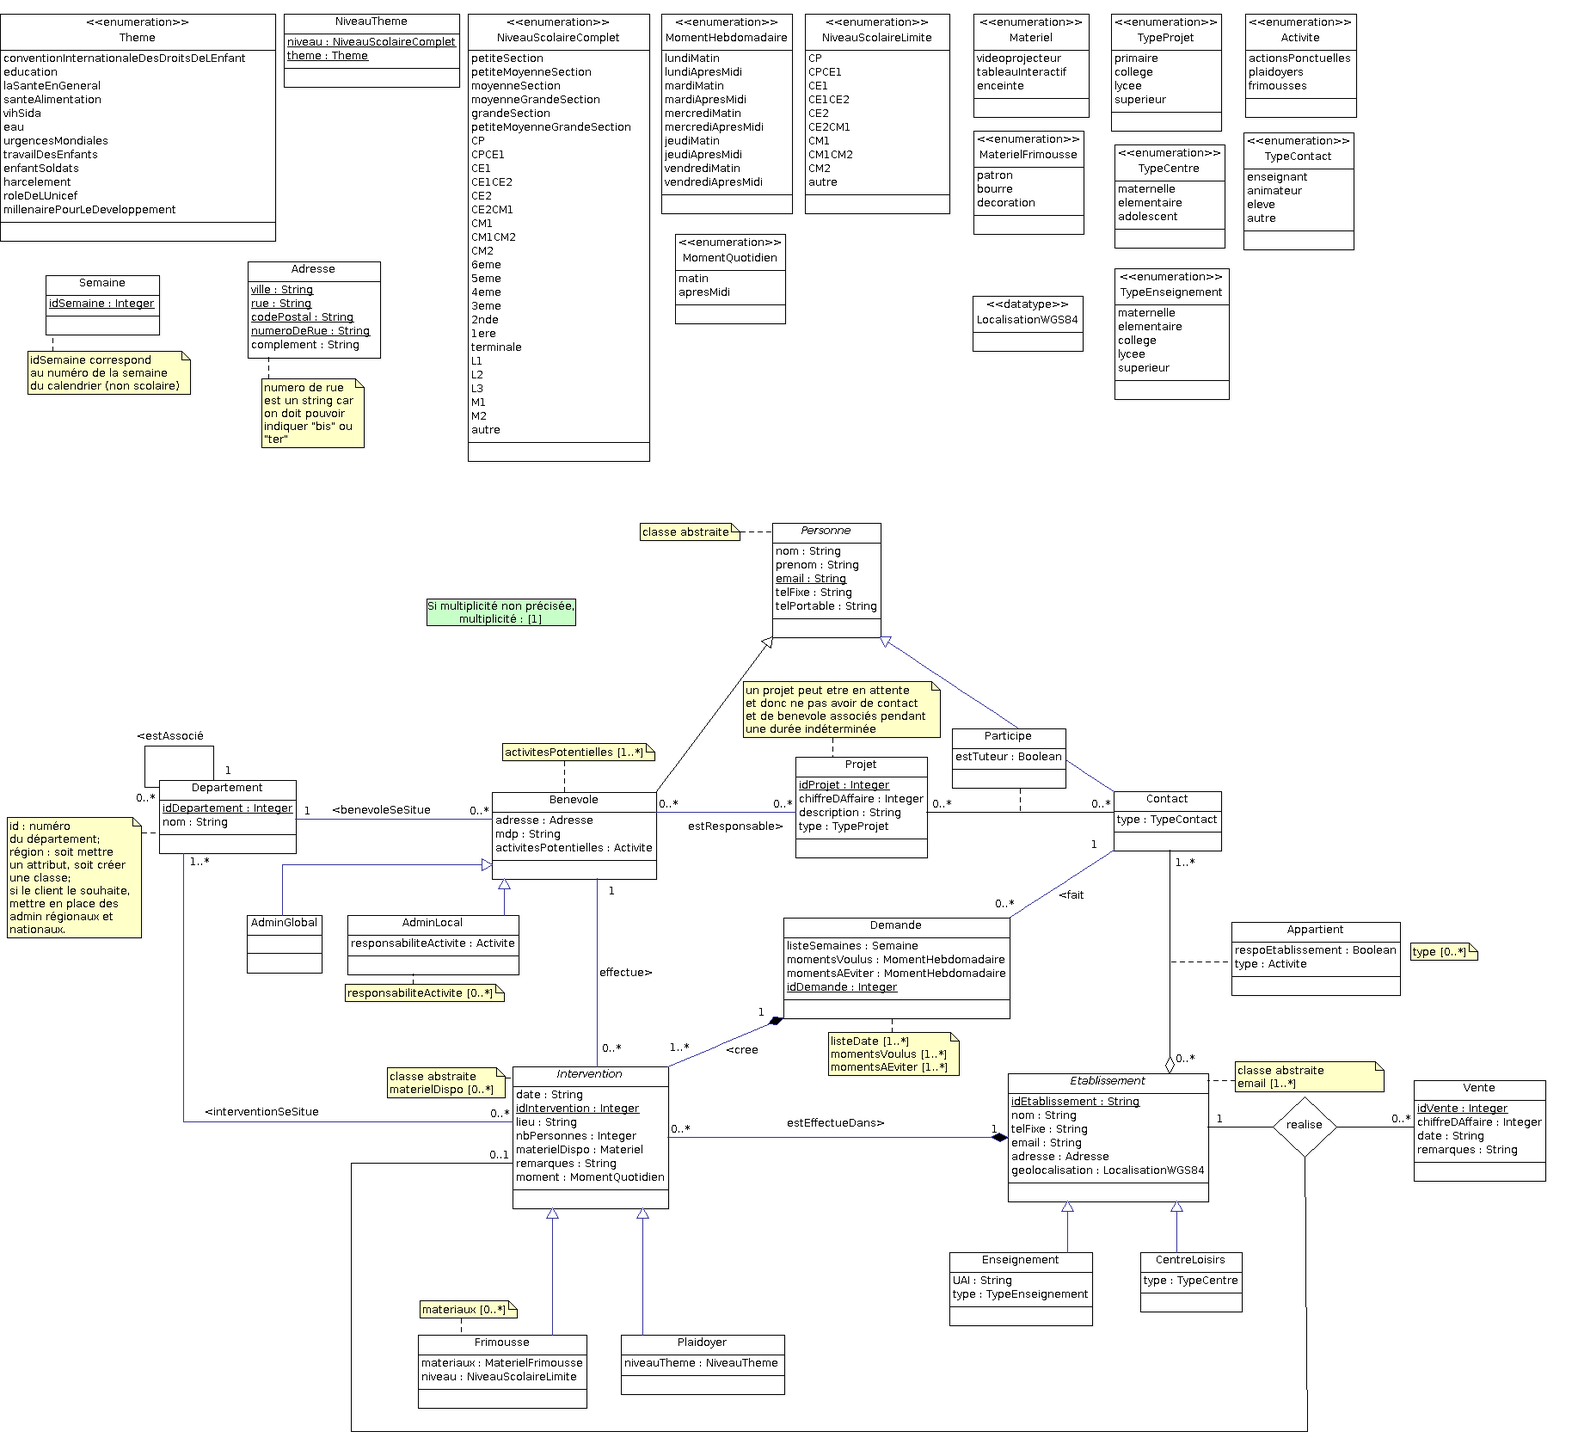
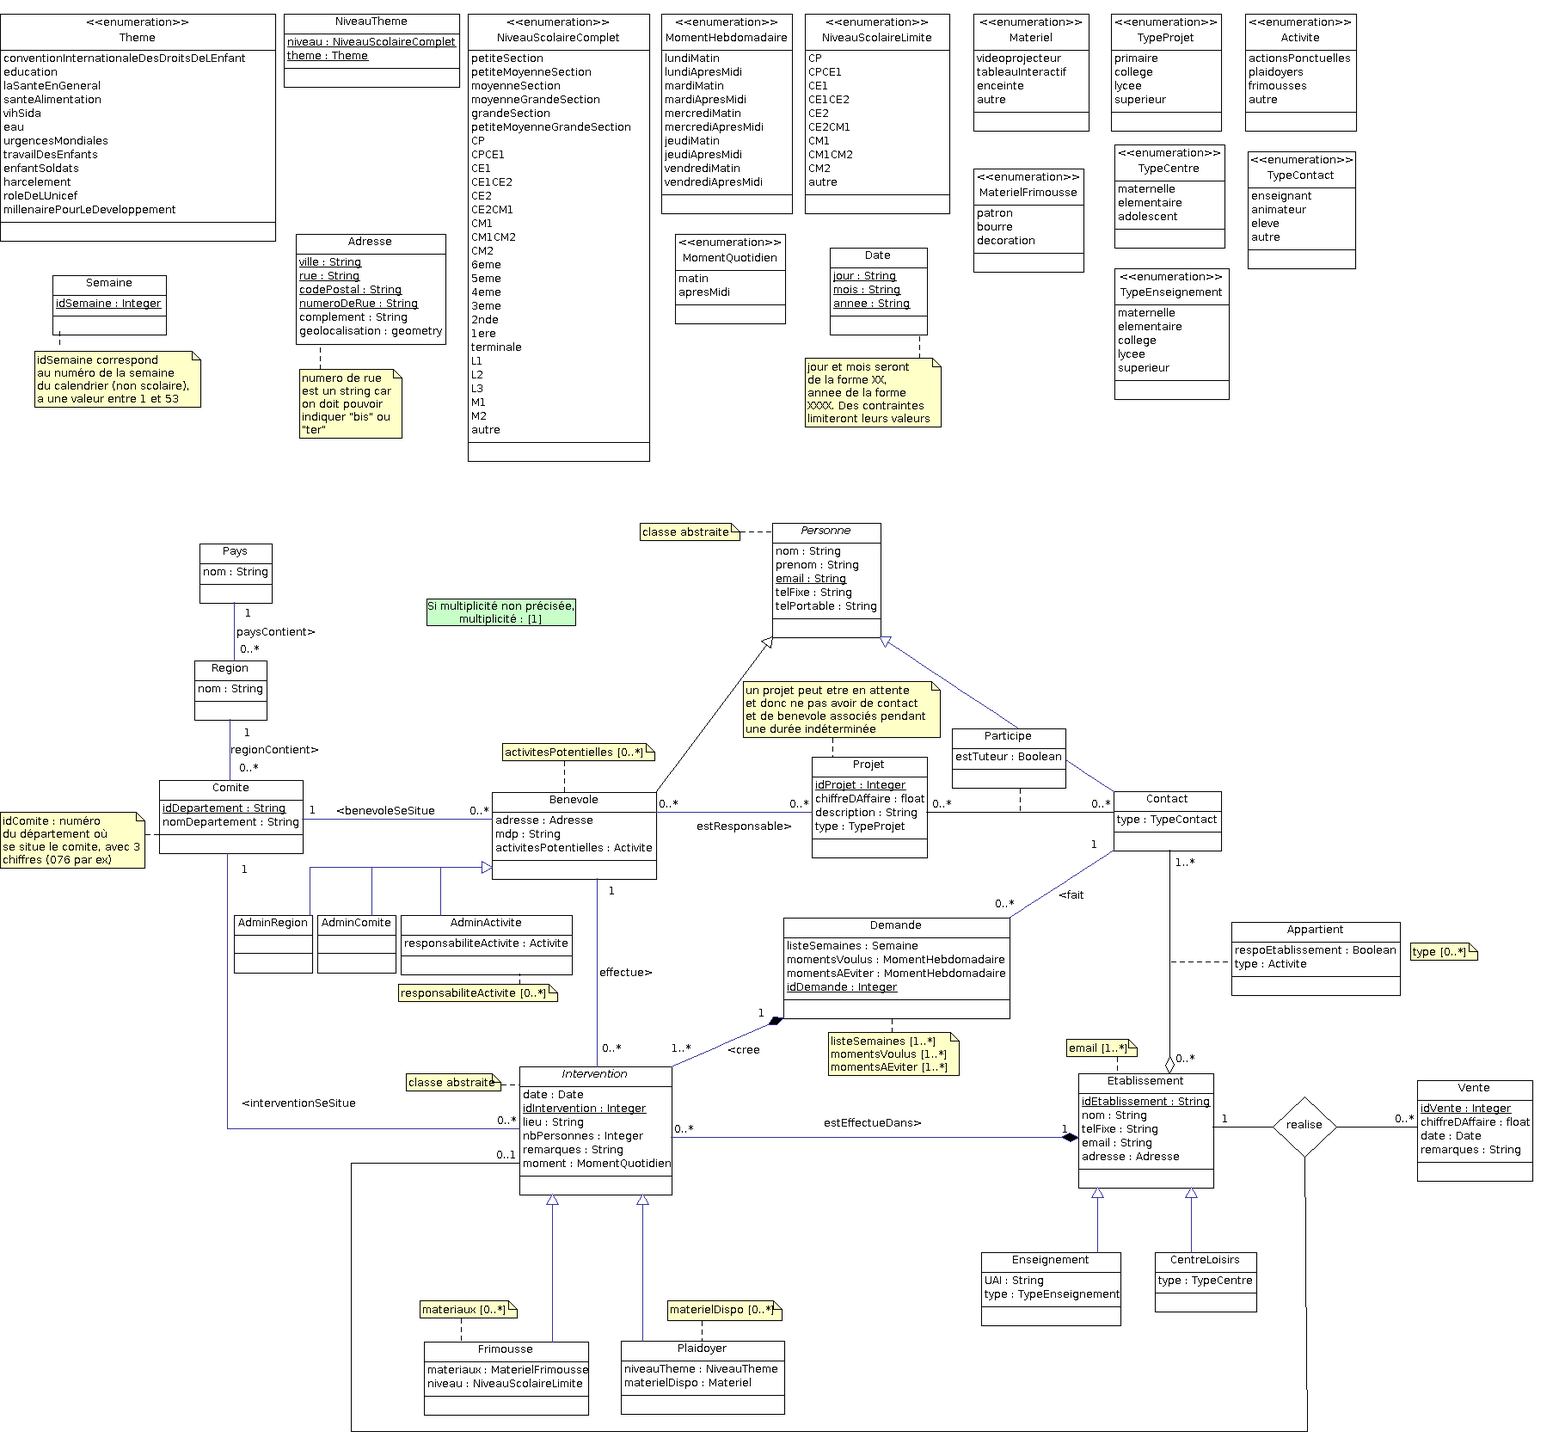
maj DC

diff --git a/developpement/lot1/DCP/diagrammeClasse/enregistrements/descriptionDiagrammeDeClasse.tex b/developpement/lot1/DCP/diagrammeClasse/enregistrements/descriptionDiagrammeDeClasse.tex
@@ -1,4 +1,4 @@
-%version 1.00, date 01/03/16, auteur Mathieu MEDICI, Julie PAIN
+%version 1.01, date 07/03/16, auteur Mathieu MEDICI, Julie PAIN
 
 \documentclass[asi, sansVersion]{picInsa}
 
@@ -33,19 +33,15 @@ Le diagramme de classe réalisé est composé de plusieurs types, de plusieurs c
 
 \subsection*{Geometry}
 
-Le type geometry est un data type spatial issu de PostGIS qui définit la localisation en respectant la norme WGS84.
+Le type geometry est un type de données respectant la norme de l'OGC (Open Geospatial Consortium) et qui définit la géolocalisation.
 
-\subsection*{Theme}
+%\subsection*{Theme}
 
-Le type Theme est une énumération qui définit les différents thèmes possibles pour les plaidoyers.
+%Le type Theme est une énumération qui définit les différents thèmes possibles pour les plaidoyers.
 
-\subsection*{NiveauScolaireComplet}
+\subsection*{NiveauScolaire}
 
-Le type NiveauScolaireComplet est une énumération qui définit tous les niveaux possibles pour les interventions plaidoyer. Ce type comporte aussi des combinaisons des niveaux comme par exemple "CPCE1" ou "CM1CM2". La valeur "autre" est utilisée pour des cas particuliers (niveau CLIS, CM26eme).
-
-\subsection*{NiveauScolaireLimite}
-
-Le type NiveauScolaireLimite est une énumération qui définit tous les niveaux possibles pour les interventions frimousse en se limitant à l'école primaire. Ce type comporte aussi des combinaisons des niveaux comme par exemple "CPCE1" ou "CM1CM2". La valeur "autre" est utilisée pour des cas particuliers (niveau CLIS, CM26eme).
+Le type NiveauScolaire est une énumération qui définit tous les niveaux possibles pour les interventions. Ce type comporte aussi des combinaisons des niveaux comme par exemple "CPCE1" ou "CM1CM2". La valeur "autre" est utilisée pour des cas particuliers (niveau CLIS, CM26eme).
 
 \subsection*{TypeCentre}
 
@@ -65,7 +61,7 @@ Le type TypeContact est une énumération qui définit les différents contacts 
 
 \subsection*{Materiel}
 
-Le type Materiel est une énumération qui définit les différents types de matériel possibles pour une intervention.
+Le type Materiel est une énumération qui définit les différents types de matériel possibles pour les interventions plaidoyers.
 
 \subsection*{MaterielFrimousse}
 
@@ -75,21 +71,30 @@ Le type MaterielFrimousse est une énumération qui définit les différents mat
 
 Le type Activite est une énumération qui définit les différentes activités que peuvent réaliser les bénévoles.
 
-\subsection*{MomentHebdomadaire}
+\subsection*{Jour}
 
-Le type MomentHebdomadaire est une énumération qui définit les différents moments possibles dans une semaine, un moment étant soit le matin soit l'après-midi.
+Le type Jour est une énumération qui définit les différents jours possibles pour une intervention.
 
 \subsection*{MomentQuotidien}
 
 Le type MomentQuotidien est une énumération qui définit les différents moments possibles dans une journée, donc matin ou après-midi.
+
+\subsection*{MomentHebdomadaire}
+
+La classe MomentHebdomadaire définit un type qui est la combinaison d'un jour et d'un moment quotidien.\\
+Cette classe a plusieurs attributs :
+\begin{itemize}
+\item un jour qui appartient à l'énumération Jour;
+\item un moment qui appartient à l'énumération MomentQuotidien.
+\end{itemize}
 
 \subsection*{NiveauTheme}
 
 La classe NiveauTheme définit un type qui est la combinaison d'un thème et d'un niveau.\\
 Cette classe a plusieurs attributs : 
 \begin{itemize}
-\item un niveau qui appartient à l'énumération NiveauScolaireComplet;
-\item un thème qui appartient à l'énumération Theme.
+\item un niveau qui appartient à l'énumération NiveauScolaire;
+\item un thème.
 \end{itemize}
 
 \subsection*{Semaine}
@@ -105,12 +110,24 @@ Cette classe a un attribut :
 La classe Adresse définit un type qui est l'adresse d'une personne ou d'un établissement.\\
 Cette classe a plusieurs attributs : 
 \begin{itemize}
-\item une rue;
-\item un numéro de rue avec si besoin le supplément "bis", "ter" ou "quater";
-\item un code postal;
 \item une ville;
-\item un complément si besoin.
+\item une rue;
+\item un code postal;
+\item un numéro de rue avec si besoin le supplément "bis", "ter" ou "quater";
+\item un complément si besoin;
+\item la géolocalisation associée à cette adresse.
 \end{itemize}
+
+\subsection*{Date}
+
+La classe Date définit un type qui est une date.\\
+Cette classe a plusieurs attributs : 
+\begin{itemize}
+\item un jour;
+\item un mois;
+\item une année.
+\end{itemize}
+
 
 \section{Les classes}
 
@@ -119,59 +136,62 @@ Cette classe a plusieurs attributs :
 La classe Personne est la classe mère des classes Benevole et Contact. C'est une généralisation, c'est à dire que la classe Personne est une classe abstraite et donc une Personne est soit un contact, soit un bénévole. \\
 Cette classe a plusieurs attributs : 
 \begin{itemize}
-\item un nom; %Cdc - Non NULL
-\item un prénom; %Cdc - Non NULL
-\item un numéro de téléphone fixe; %Cdc - Peut être NULL
-\item un numéro de téléphone portable; %Cdc - Peut être NULL
-\item un email. %Ne peut pas être NULL (Clé)
+\item un nom;
+\item un prénom;
+\item un email;
+\item un numéro de téléphone fixe;
+\item un numéro de téléphone portable.
 \end{itemize}
 
 \subsection*{Benevole}
 
-La classe Benevole est une classe fille de la classe Personne et la classe mère des classes AdminLocal et AdminGlobal. Cette classe décrit les bénévoles de l'UNICEF qui réaliseront des interventions mais aussi ceux qui géreront des activités (AdminLocalL) ou des départements (AdminGlobal). L'héritage est ici une spécialisation, c'est à dire qu'une personne peut être simplement bénévole sans être ni administrateur global, ni administrateur local. \\
+La classe Benevole est une classe fille de la classe Personne et la classe mère des classes AdminActivite, AdminComite et AdminRegion. Cette classe décrit les bénévoles de l'UNICEF qui réaliseront des interventions mais aussi ceux qui géreront des activités (AdminActivite), des comités (AdminComite) ou des régions (AdminRegion). L'héritage est ici une spécialisation, c'est à dire qu'une personne peut être simplement bénévole sans être administrateur. \\
 Cette classe a plusieurs attributs : 
 \begin{itemize}
-\item une adresse correspondant à la rue, au numéro de rue, au code postal, à la ville et au complément si besoin; %Adresse est une classe
-\item aucune, une ou plusieurs activités potentielles (action ponctuelle, frimousse, plaidoyer); % attribut multivalué
-\item un mot de passe. 
+\item une adresse correspondant à la rue, au numéro de rue, au code postal, à la ville, au complément si besoin et à une géolocalisation;
+\item un mot de passe;
+\item aucune, une ou plusieurs activités potentielles (action ponctuelle, frimousse, plaidoyer ou autre).
 \end{itemize}
 
-\subsection*{AdminLocal}
+\subsection*{AdminActivite}
 
-La classe AdminLocal permet de représenter un administrateur local. Cette classe est une classe fille de la classe Benevole.\\
+La classe AdminActivite permet de représenter un administrateur d'une ou plusieurs activités (administrateur local du cahier des charges). Cette classe est une classe fille de la classe Benevole.\\
 Cette classe a un attribut :
 \begin{itemize}
-\item aucune, une ou plusieurs responsabilités d'activité (action ponctuelle, frimousse, plaidoyer). 
+\item une ou plusieurs responsabilités d'activité (action ponctuelle, frimousse, plaidoyer ou autre). 
 \end{itemize}
 
-\subsection*{AdminGlobal}
+\subsection*{AdminComite}
 
-La classe AdminGlobal permet de représenter un administrateur global. Cette classe est une classe fille de la classe Benevole. 
+La classe AdminComite permet de représenter un administrateur de comité (ou d'un département, c'est la même chose). Cette classe est une classe fille de la classe Benevole. 
+
+\subsection*{AdminRegion}
+
+La classe AdminRegion permet de représenter un administrateur de région, une région ayant en générale plusieurs comités. Cette classe est une classe fille de la classe Benevole. 
 
 \subsection*{Contact}
 
 La classe Contact est une classe fille de la classe Personne. Cette classe décrit les personnes étant reliées à un établissement comme le personnel y travaillant ou encore les élèves. \\
 Cette classe a un attribut : 
 \begin{itemize}
-\item un type de contact qui permet de déterminer si un contact est un enseignant, un animateur, un contact frimousse, un contact plaidoyer, un contact activité ponctuelle ou un responsable d'établissement.
+\item un type de contact qui permet de déterminer si un contact est un enseignant, un animateur, un élève ou autre.
 \end{itemize} 
 
 
 \subsection*{Etablissement}
 
-La classe Etablissement est la classe mère des classes Enseignement et CentreLoisirs. C'est une généralisation, c'est à dire que la classe Etablissement est une classe abstraite et donc un établissement est soit un enseignement, soit un centre de loisirs. \\
+La classe Etablissement est la classe mère des classes Enseignement et CentreLoisirs. C'est une spécialisation, c'est à dire qu'un établissement peut être ni un enseignement ni un centre de loisirs. Ce sera le cas pour les mairies par exemple. \\
 Cette classe a plusieurs attributs : 
 \begin{itemize}
 \item un identifiant unique;
 \item un nom;
-\item une adresse correspondant à la rue, au numéro de rue, au code postal, à la ville et au complément si besoin; %Adresse est une classe
 \item un numéro de téléphone fixe;
-\item une ou plusieurs adresses e-mail; % attribut multivalué
-\item une géolocalisation WGS84. % Peut être NULL
+\item une ou plusieurs adresses e-mail;
+\item une adresse correspondant à la rue, au numéro de rue, au code postal, à la ville, au complément si besoin et à une géolocalisation.
 \end{itemize}
 
 \subsection*{Enseignement}
-La classe Enseignement est une classe fille de la classe Etablissement. Cette classe décrit les établissements qui relèvent de l'éducation nationale. \\
+La classe Enseignement est une classe fille de la classe Etablissement. Cette classe décrit les établissements qui relèvent de l'Education Nationale. \\
 Cette classe a plusieurs attributs : 
 \begin{itemize}
 \item un UAI (Unité Administrative Immatriculée) qui est une combinaison de chiffres et de lettres unique pour chaque enseignement;
@@ -187,31 +207,29 @@ Cette classe a un attribut :
 \end{itemize}  
 
 \subsection*{Intervention}
-La classe Intervention est la classe mère des classes Plaidoyer et Frimousse. Cette classe décrit une intervention que peut demander un établissement ou un contact. \\
+La classe Intervention est la classe mère des classes Plaidoyer et Frimousse. Cette classe décrit une intervention que peut demander un contact. \\
 Cette classe a plusieurs attributs :
 \begin{itemize}
-\item un identifiant unique;
 \item une date précise déterminée par les bénévoles lors de l'attribution des bénévoles aux interventions;
-\item un moment indiquant si l'intervention a lieu le matin ou l'après-midi;
-\item le nombre de personnes concernées par cette intervention (exemple : le nombre d'élève d'une classe);
-\item le matériel disponible pour l'intervention (présence ou non d'un rétroprojecteur, d'un tableau intéractif ou d'enceintes);
+\item un identifiant unique;
 \item un lieu dans l'établissement, c'est à dire la salle où aura lieu l'intervention;
-\item un champ remarque permettant à l'utilisateur de saisir des remarques spécifiques à cette intervention. 
+\item le nombre de personnes concernées par cette intervention (exemple : le nombre d'élève d'une classe);
+\item un champ remarque permettant au contact de saisir des remarques spécifiques à cette intervention;
+\item un moment indiquant si l'intervention a lieu le matin, l'après-midi ou les deux.
 \end{itemize}
 
 \subsection*{Plaidoyer}
 La classe Plaidoyer est une classe fille de la classe Intervention. \\
 Cette classe a un attribut : 
 \begin{itemize}
-\item un niveau-thème qui indique à la fois le thème de l'intervention et le niveau de la classe dans laquelle va se dérouler l'intervention, par exemple, pour une école primaire, la classe peut être CE1 mais aussi CE1-CE2.
+\item le matériel disponible pour l'intervention (présence ou non d'un vidéoprojecteur, d'un tableau intéractif, d'enceintes ou autre).
 \end{itemize}
 
 \subsection*{Frimousse}
 La classe Frimousse est une classe fille de la classe Intervention. Une activité frimousse est réalisée avec des enfants d'école élémentaire. \\
-Cette classe a plusieurs attributs :
+Cette classe a un attribut :
 \begin{itemize}
-\item les matériaux nécessaires à la réalisation de l'activité (patron, bourre, décoration); % Attribut multivalué
-\item un niveau qui correspond à la classe dans laquelle va se dérouler l'intervention (CP, CE1, etc).
+\item les matériaux nécessaires à la réalisation de l'activité (patron, bourre, décoration).
 \end{itemize}
 
 \subsection*{Projet}
@@ -219,9 +237,8 @@ La classe Projet représente les projets réalisées par des étudiants ou des l
 Cette classe a plusieurs attributs : 
 \begin{itemize}
 \item un identifiant unique;
-\item le type de projet permet de savoir si le projet est réalisé par des étudiants, des lycéens, des élèves d'école primaire ou de collège; 
-\item la description du projet est un champ permettant à l'utilisateur de saisir toutes les informations importantes sur le projet (le nom du projet, s'il y a un tuteur);
-\item le chiffre d'affaire réalisés par ce projet.
+\item le chiffre d'affaire réalisés par ce projet;\item la description du projet est un champ permettant au(x) bénévole(s) de saisir d'autres informations importantes sur le projet (nom du projet par exemple);
+\item le type de projet permet de savoir si le projet est réalisé par des étudiants, des lycéens, des élèves d'école primaire ou de collège.
 \end{itemize}
 
 \subsection*{Vente}
@@ -229,9 +246,9 @@ La classe Vente représente les actions ponctuelles réalisées par les établis
 Cette classe a plusieurs attributs : 
 \begin{itemize}
 \item un identifiant unique; 
-\item le chiffre d'affaire réalisés par cette vente;
+\item le chiffre d'affaire réalisé par cette vente;
 \item la date de la vente;
-\item un champ remarques permettant à l'utilisateur d'ajouter des informations importantes. 
+\item un champ remarques permettant aux bénévoles d'ajouter des informations importantes. 
 \end{itemize}
 
 \subsection*{Demande}
@@ -245,12 +262,30 @@ Cette classe a plusieurs attributs :
 \item les moments à éviter pour une semaine type. 
 \end{itemize}
 
-\subsection*{Departement}
+\subsection*{Comite}
 
-La classe Departement représente les départements français.\\
+La classe Comite représente les comités de bénévoles, il y a un comité par département.\\
 Cette classe a plusieurs attributs :
 \begin{itemize}
-\item un identifiant unique (le numéro du département). 
+\item un identifiant unique (le numéro du département sous la forme XXX);
+\item le nom du département;
+\item la liste des thèmes du comité avec les niveaux associés à chaque thème.
+\end{itemize}
+
+\subsection*{Region}
+
+La classe Region représente les régions françaises.\\
+Cette classe a un attribut :
+\begin{itemize}
+\item le nom de la région.
+\end{itemize}
+
+\subsection*{Pays}
+
+La classe Pays représente la France.\\
+Cette classe a un attribut :
+\begin{itemize}
+\item le nom du pays (donc "France").
 \end{itemize}
 
 
@@ -259,8 +294,8 @@ Cette classe a plusieurs attributs :
 \subsection*{estResponsable}
 L'association \textit{estResponsable} relie un Benevole et un Projet. Un benévole est responsable d'aucun, un ou plusieurs projets et un projet est sous la responsabilité d'aucun (si le projet est en attente), un ou plusieurs bénévoles.
 
-\subsection*{participe}
-L'association \textit{participe} relie un Contact et un Projet. Un contact participe à aucun, un ou plusieurs projets et un projet a pour participant aucun (si le projet est en attente), un ou plusieurs contacts.\\
+\subsection*{Participe}
+L'association \textit{Participe} relie un Contact et un Projet. Un contact participe à aucun, un ou plusieurs projets et un projet a pour participant aucun (si le projet est en attente), un ou plusieurs contacts.\\
 Cette association a un attribut :
 \begin{itemize}
 \item un booléen qui indique si le contact est ou non un tuteur du projet (un professeur tuteur des élèves réalisant le projet par exemple). 
@@ -268,7 +303,7 @@ Cette association a un attribut :
 
 \subsection*{realise}
 
-L'association \textit{realise} est une association ternaire qui relie une Vente, un Etablissement et une Intervention. Un établissement réalise aucune, une ou plusieurs ventes. Une vente est réalisée par un et un seul établissement. La vente est à l'origine d'aucune ou une intervention.
+L'association \textit{realise} est une association ternaire qui relie une Vente, un Etablissement et une Intervention. Un établissement réalise aucune, une ou plusieurs ventes. Une vente est réalisée par un et un seul établissement. La vente a été réalisée suite à aucune ou une intervention.
 
 \subsection*{fait}
 
@@ -276,19 +311,19 @@ L'association \textit{fait} relie un Contact et une Demande. Un contact fait auc
 
 \subsection*{cree}
 
-L'association \textit{cree} relie une Demande et une INTERVENTION. Une demande crée une ou plusieurs interventions, une intervention est créée par une et une seule demande.
+L'association \textit{cree} relie une Demande et une Intervention. Une demande crée une ou plusieurs interventions, une intervention est créée par une et une seule demande.
 
 \subsection*{effectue} 
 
-L'association \textit{effectue} relie un Benevole et une Intervention. Un bénévole effectue aucune, une ou plusieurs interventions. Une intervention est effectuée par un et un seul utilisateur. 
+L'association \textit{effectue} relie un Benevole et une Intervention. Un bénévole effectue aucune, une ou plusieurs interventions. Une intervention est effectuée par un et un seul bénévole. 
 
 \subsection*{Appartient}
 
-L'association \textit{appartient} relie un Contact et un Etablissement. Un contact appartient à aucun, un ou plusieurs établissements. Un établissement a un ou plusieurs contacts.\\
+L'association \textit{Appartient} relie un Contact et un Etablissement. Un contact appartient à aucun, un ou plusieurs établissements. Un établissement a un ou plusieurs contacts.\\
 Cette association a plusieurs attributs :
 \begin{itemize}
 \item un booléen qui indique si le contact est ou non le responsable de l'établissement; 
-\item un type qui indique si le contact est responsable d'aucune, une ou plusieurs activités.
+\item un type qui indique quelles sont les responsabilités du contact par rapport aux activités.
 \end{itemize}
 
 \subsection*{effectuerDans}
@@ -303,9 +338,13 @@ L'association \textit{benevoleSeSitue} relie un Benevole et un Departement. Un b
 
 L'association \textit{interventionSeSitue} relie une Intervention et un Departement. Une intervention se situe dans un et un seul département, un département a aucune, une ou plusieurs interventions.
 
-\subsection*{estAssocie}
+\subsection*{regionContient}
 
-L'association \textit{estAssocie} relie un Departement à lui-même. Un département est associé à aucun, un ou plusieurs départements.
+L'association \textit{regionContient} relie une Region et un Comite. Une région contient aucun, un ou plusieurs comités, un comité est dans une et une seule région.
+
+\subsection*{paysContient}
+
+L'association \textit{paysContient} relie un Pays et une Region. Un pays contient aucune, une ou plusieurs régions, une région est dans un et un seul pays.
 
 \chapter{Contraites d'intégrité}
 
